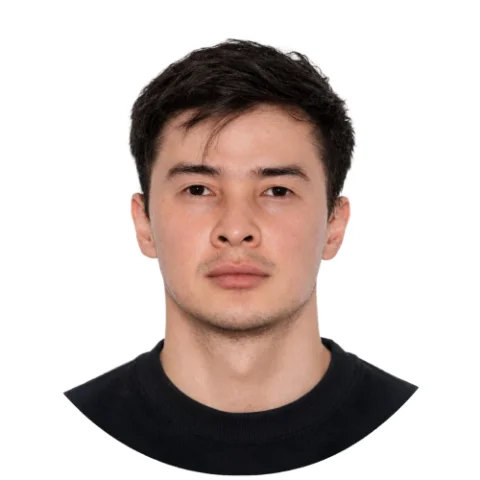
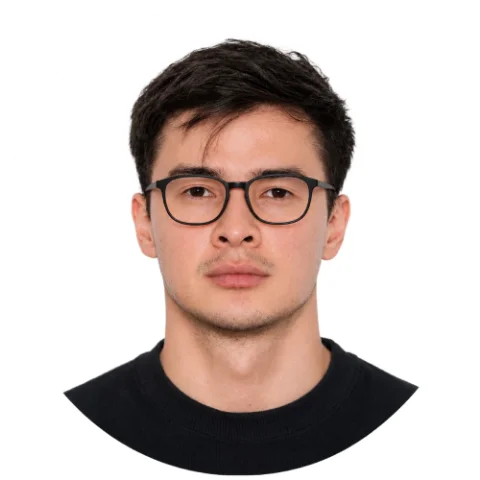
Новый аватар (в очках)

Changed region(s): [[0.2812, 0.3125, 0.75, 0.5], [0.4062, 0.0938, 0.4375, 0.125], [0.2812, 0.1875, 0.3125, 0.2188]]

diff --git a/about.html b/about.html
@@ -37,8 +37,8 @@
   <div class="container">
     <header class="header">
       <a class="avatar-link" href="/" aria-label="На главную">
-        <img class="avatar" data-reveal src="images/avatar.jpg?v=4" alt="Аман" width="56" height="56">
-        <span class="avatar-preview" aria-hidden="true"><img src="images/avatar-large.webp?v=2" alt="" width="240" height="240" draggable="false"></span>
+        <img class="avatar" data-reveal src="images/avatar.jpg?v=5" alt="Аман" width="56" height="56">
+        <span class="avatar-preview" aria-hidden="true"><img src="images/avatar-large.webp?v=3" alt="" width="240" height="240" draggable="false"></span>
       </a>
 
       <!-- Город — рядом с аватаром -->

diff --git a/abusiness.html b/abusiness.html
@@ -37,8 +37,8 @@
   <div class="container">
     <header class="header">
       <a class="avatar-link" href="/" aria-label="На главную">
-        <img class="avatar" data-reveal src="images/avatar.jpg?v=4" alt="Аман" width="56" height="56">
-        <span class="avatar-preview" aria-hidden="true"><img src="images/avatar-large.webp?v=2" alt="" width="240" height="240" draggable="false"></span>
+        <img class="avatar" data-reveal src="images/avatar.jpg?v=5" alt="Аман" width="56" height="56">
+        <span class="avatar-preview" aria-hidden="true"><img src="images/avatar-large.webp?v=3" alt="" width="240" height="240" draggable="false"></span>
       </a>
 
       <!-- Город — рядом с аватаром -->

diff --git a/index.html b/index.html
@@ -37,8 +37,8 @@
   <div class="container">
     <header class="header">
       <a class="avatar-link" href="/" aria-label="На главную">
-        <img class="avatar" data-reveal src="images/avatar.jpg?v=4" alt="Аман" width="56" height="56">
-        <span class="avatar-preview" aria-hidden="true"><img src="images/avatar-large.webp?v=2" alt="" width="240" height="240" draggable="false"></span>
+        <img class="avatar" data-reveal src="images/avatar.jpg?v=5" alt="Аман" width="56" height="56">
+        <span class="avatar-preview" aria-hidden="true"><img src="images/avatar-large.webp?v=3" alt="" width="240" height="240" draggable="false"></span>
       </a>
 
       <!-- Город — рядом с аватаром -->

diff --git a/tele2-ds.html b/tele2-ds.html
@@ -37,8 +37,8 @@
   <div class="container">
     <header class="header">
       <a class="avatar-link" href="/" aria-label="На главную">
-        <img class="avatar" data-reveal src="images/avatar.jpg?v=4" alt="Аман" width="56" height="56">
-        <span class="avatar-preview" aria-hidden="true"><img src="images/avatar-large.webp?v=2" alt="" width="240" height="240" draggable="false"></span>
+        <img class="avatar" data-reveal src="images/avatar.jpg?v=5" alt="Аман" width="56" height="56">
+        <span class="avatar-preview" aria-hidden="true"><img src="images/avatar-large.webp?v=3" alt="" width="240" height="240" draggable="false"></span>
       </a>
 
       <!-- Город — рядом с аватаром -->

diff --git a/tele2-number.html b/tele2-number.html
@@ -37,8 +37,8 @@
   <div class="container">
     <header class="header">
       <a class="avatar-link" href="/" aria-label="На главную">
-        <img class="avatar" data-reveal src="images/avatar.jpg?v=4" alt="Аман" width="56" height="56">
-        <span class="avatar-preview" aria-hidden="true"><img src="images/avatar-large.webp?v=2" alt="" width="240" height="240" draggable="false"></span>
+        <img class="avatar" data-reveal src="images/avatar.jpg?v=5" alt="Аман" width="56" height="56">
+        <span class="avatar-preview" aria-hidden="true"><img src="images/avatar-large.webp?v=3" alt="" width="240" height="240" draggable="false"></span>
       </a>
 
       <!-- Город — рядом с аватаром -->
